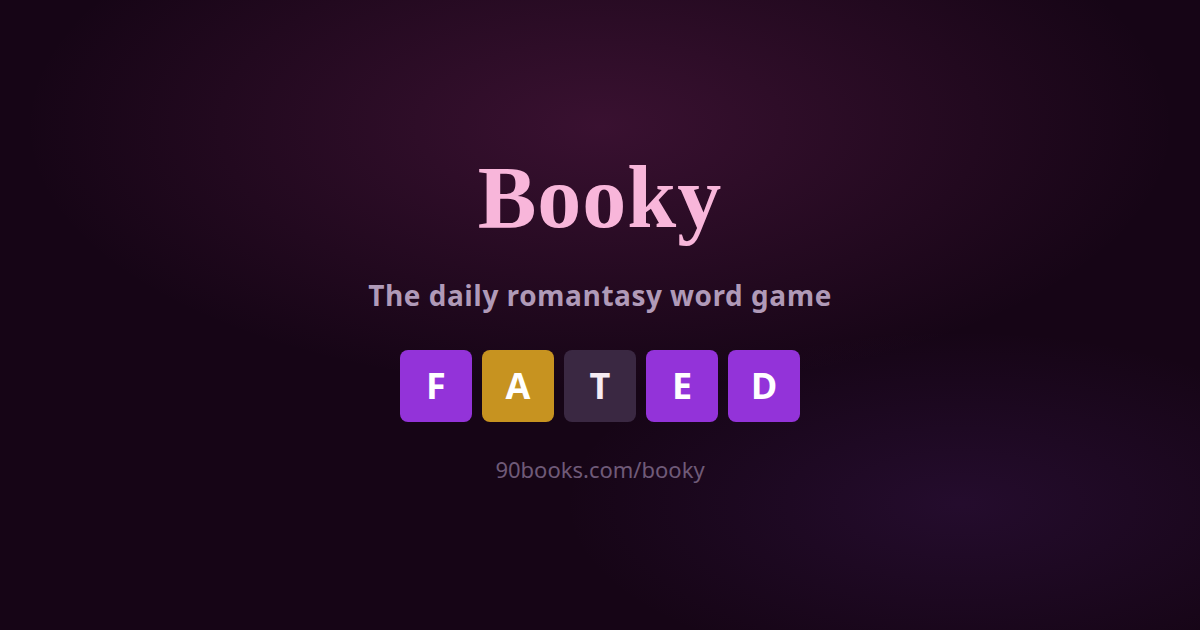
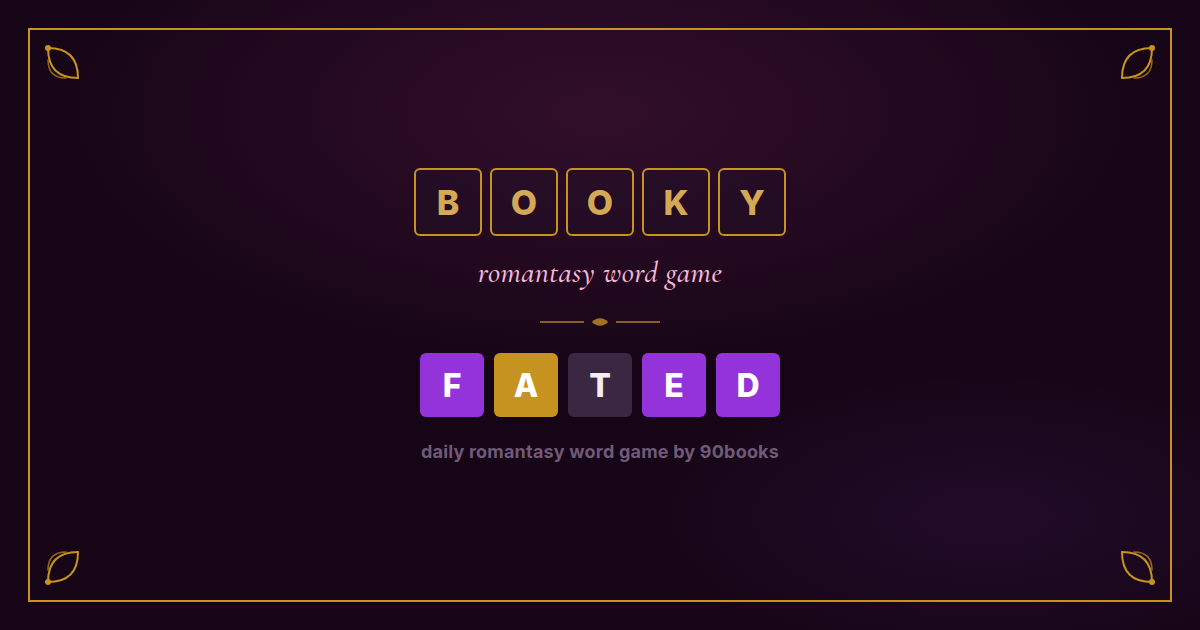
Align og:image with author promo brand shell
Gold frame, tile-style BOOKY wordmark, and romantasy tagline to match
the visual language of partner share graphics while staying book-agnostic.

diff --git a/booky/og-image.html b/booky/og-image.html
@@ -2,73 +2,180 @@
 <html lang="en">
 <head>
 <meta charset="UTF-8" />
+<link rel="preconnect" href="https://fonts.googleapis.com" />
+<link rel="preconnect" href="https://fonts.gstatic.com" crossorigin />
+<link href="https://fonts.googleapis.com/css2?family=Cormorant+Garamond:ital,wght@0,500;0,600;1,500&family=Inter:wght@700;800&display=swap" rel="stylesheet" />
 <style>
   * { margin: 0; padding: 0; box-sizing: border-box; }
+
+  :root {
+    --bg: #160516;
+    --gold: #c79320;
+    --gold-light: #d4a855;
+    --ink: #f6ecf3;
+    --ink-dim: #b09ab8;
+    --ink-faint: #6f5a78;
+    --accent: #d946a8;
+    --accent-2: #f8b6da;
+    --correct: #9333d9;
+    --present: #c79320;
+    --absent: #3a2842;
+  }
+
   body {
     width: 1200px;
     height: 630px;
-    background: radial-gradient(ellipse 80% 70% at 50% 20%, rgba(217,70,168,0.18) 0%, transparent 60%),
-                radial-gradient(ellipse 60% 50% at 80% 80%, rgba(139,63,211,0.12) 0%, transparent 55%),
-                #160516;
-    font-family: Georgia, "Times New Roman", serif;
-    color: #f6ecf3;
+    background:
+      radial-gradient(ellipse 80% 70% at 50% 18%, rgba(217, 70, 168, 0.14) 0%, transparent 60%),
+      radial-gradient(ellipse 55% 45% at 82% 82%, rgba(139, 63, 211, 0.10) 0%, transparent 55%),
+      var(--bg);
+    font-family: "Cormorant Garamond", Georgia, serif;
+    color: var(--ink);
+    position: relative;
+    overflow: hidden;
+  }
+
+  .frame {
+    position: absolute;
+    inset: 28px;
+    border: 2px solid var(--gold);
     display: flex;
     flex-direction: column;
     align-items: center;
     justify-content: center;
-    gap: 28px;
+    gap: 22px;
   }
-  .wordmark {
-    font-size: 88px;
-    font-weight: 600;
-    letter-spacing: 1px;
-    color: #f8b6da;
-  }
-  .tagline {
-    font-family: -apple-system, BlinkMacSystemFont, "Segoe UI", sans-serif;
-    font-size: 28px;
-    font-weight: 600;
-    color: #b09ab8;
-    letter-spacing: 0.5px;
-  }
-  .grid {
-    display: flex;
-    gap: 10px;
-    margin-top: 8px;
-  }
-  .tile {
+
+  .corner {
+    position: absolute;
     width: 72px;
     height: 72px;
-    border-radius: 8px;
+    color: var(--gold);
+  }
+  .corner.tl { top: 10px; left: 10px; }
+  .corner.tr { top: 10px; right: 10px; transform: scaleX(-1); }
+  .corner.bl { bottom: 10px; left: 10px; transform: scaleY(-1); }
+  .corner.br { bottom: 10px; right: 10px; transform: scale(-1, -1); }
+
+  .logo-row {
+    display: flex;
+    gap: 8px;
+  }
+
+  .logo-tile {
+    width: 68px;
+    height: 68px;
+    border: 2px solid var(--gold);
+    border-radius: 6px;
     display: flex;
     align-items: center;
     justify-content: center;
-    font-family: -apple-system, BlinkMacSystemFont, "Segoe UI", sans-serif;
-    font-size: 36px;
+    font-family: Inter, -apple-system, BlinkMacSystemFont, "Segoe UI", sans-serif;
+    font-size: 34px;
+    font-weight: 800;
+    color: var(--gold-light);
+    letter-spacing: 0;
+    background: rgba(34, 17, 39, 0.55);
+  }
+
+  .tagline {
+    font-size: 30px;
+    font-weight: 500;
+    font-style: italic;
+    color: var(--accent-2);
+    letter-spacing: 0.4px;
+    margin-top: -4px;
+  }
+
+  .divider {
+    width: 120px;
+    height: 18px;
+    color: var(--gold);
+    opacity: 0.85;
+  }
+
+  .grid {
+    display: flex;
+    gap: 10px;
+  }
+
+  .tile {
+    width: 64px;
+    height: 64px;
+    border-radius: 6px;
+    display: flex;
+    align-items: center;
+    justify-content: center;
+    font-family: Inter, -apple-system, BlinkMacSystemFont, "Segoe UI", sans-serif;
+    font-size: 32px;
     font-weight: 800;
     color: #fff;
   }
-  .correct { background: #9333d9; }
-  .present { background: #c79320; }
-  .absent  { background: #3a2842; color: #f6ecf3; }
-  .domain {
-    font-family: -apple-system, BlinkMacSystemFont, "Segoe UI", sans-serif;
-    font-size: 22px;
-    color: #6f5a78;
-    margin-top: 4px;
+  .tile.correct { background: var(--correct); }
+  .tile.present { background: var(--present); }
+  .tile.absent  { background: var(--absent); color: var(--ink); }
+
+  .footer {
+    font-family: Inter, -apple-system, BlinkMacSystemFont, "Segoe UI", sans-serif;
+    font-size: 18px;
+    font-weight: 600;
+    color: var(--ink-faint);
+    letter-spacing: 0.2px;
+    margin-top: 2px;
   }
 </style>
 </head>
 <body>
-  <div class="wordmark">Booky</div>
-  <div class="tagline">The daily romantasy word game</div>
-  <div class="grid" aria-hidden="true">
-    <div class="tile correct">F</div>
-    <div class="tile present">A</div>
-    <div class="tile absent">T</div>
-    <div class="tile correct">E</div>
-    <div class="tile correct">D</div>
+  <div class="frame">
+    <svg class="corner tl" viewBox="0 0 72 72" fill="none" aria-hidden="true">
+      <path d="M8 8 C8 28 18 38 38 38" stroke="currentColor" stroke-width="2" stroke-linecap="round"/>
+      <path d="M8 8 C28 8 38 18 38 38" stroke="currentColor" stroke-width="2" stroke-linecap="round"/>
+      <path d="M8 20 C8 32 14 38 26 38" stroke="currentColor" stroke-width="1.5" stroke-linecap="round" opacity="0.7"/>
+      <circle cx="8" cy="8" r="3" fill="currentColor"/>
+    </svg>
+    <svg class="corner tr" viewBox="0 0 72 72" fill="none" aria-hidden="true">
+      <path d="M8 8 C8 28 18 38 38 38" stroke="currentColor" stroke-width="2" stroke-linecap="round"/>
+      <path d="M8 8 C28 8 38 18 38 38" stroke="currentColor" stroke-width="2" stroke-linecap="round"/>
+      <path d="M8 20 C8 32 14 38 26 38" stroke="currentColor" stroke-width="1.5" stroke-linecap="round" opacity="0.7"/>
+      <circle cx="8" cy="8" r="3" fill="currentColor"/>
+    </svg>
+    <svg class="corner bl" viewBox="0 0 72 72" fill="none" aria-hidden="true">
+      <path d="M8 8 C8 28 18 38 38 38" stroke="currentColor" stroke-width="2" stroke-linecap="round"/>
+      <path d="M8 8 C28 8 38 18 38 38" stroke="currentColor" stroke-width="2" stroke-linecap="round"/>
+      <path d="M8 20 C8 32 14 38 26 38" stroke="currentColor" stroke-width="1.5" stroke-linecap="round" opacity="0.7"/>
+      <circle cx="8" cy="8" r="3" fill="currentColor"/>
+    </svg>
+    <svg class="corner br" viewBox="0 0 72 72" fill="none" aria-hidden="true">
+      <path d="M8 8 C8 28 18 38 38 38" stroke="currentColor" stroke-width="2" stroke-linecap="round"/>
+      <path d="M8 8 C28 8 38 18 38 38" stroke="currentColor" stroke-width="2" stroke-linecap="round"/>
+      <path d="M8 20 C8 32 14 38 26 38" stroke="currentColor" stroke-width="1.5" stroke-linecap="round" opacity="0.7"/>
+      <circle cx="8" cy="8" r="3" fill="currentColor"/>
+    </svg>
+
+    <div class="logo-row" aria-hidden="true">
+      <div class="logo-tile">B</div>
+      <div class="logo-tile">O</div>
+      <div class="logo-tile">O</div>
+      <div class="logo-tile">K</div>
+      <div class="logo-tile">Y</div>
+    </div>
+    <div class="tagline">romantasy word game</div>
+
+    <svg class="divider" viewBox="0 0 120 18" fill="none" aria-hidden="true">
+      <path d="M0 9 H44" stroke="currentColor" stroke-width="1.5"/>
+      <path d="M76 9 H120" stroke="currentColor" stroke-width="1.5"/>
+      <path d="M52 9 C56 4 64 4 68 9 C64 14 56 14 52 9 Z" fill="currentColor" opacity="0.9"/>
+    </svg>
+
+    <div class="grid" aria-hidden="true">
+      <div class="tile correct">F</div>
+      <div class="tile present">A</div>
+      <div class="tile absent">T</div>
+      <div class="tile correct">E</div>
+      <div class="tile correct">D</div>
+    </div>
+
+    <div class="footer">daily romantasy word game by 90books</div>
   </div>
-  <div class="domain">90books.com/booky</div>
 </body>
 </html>
